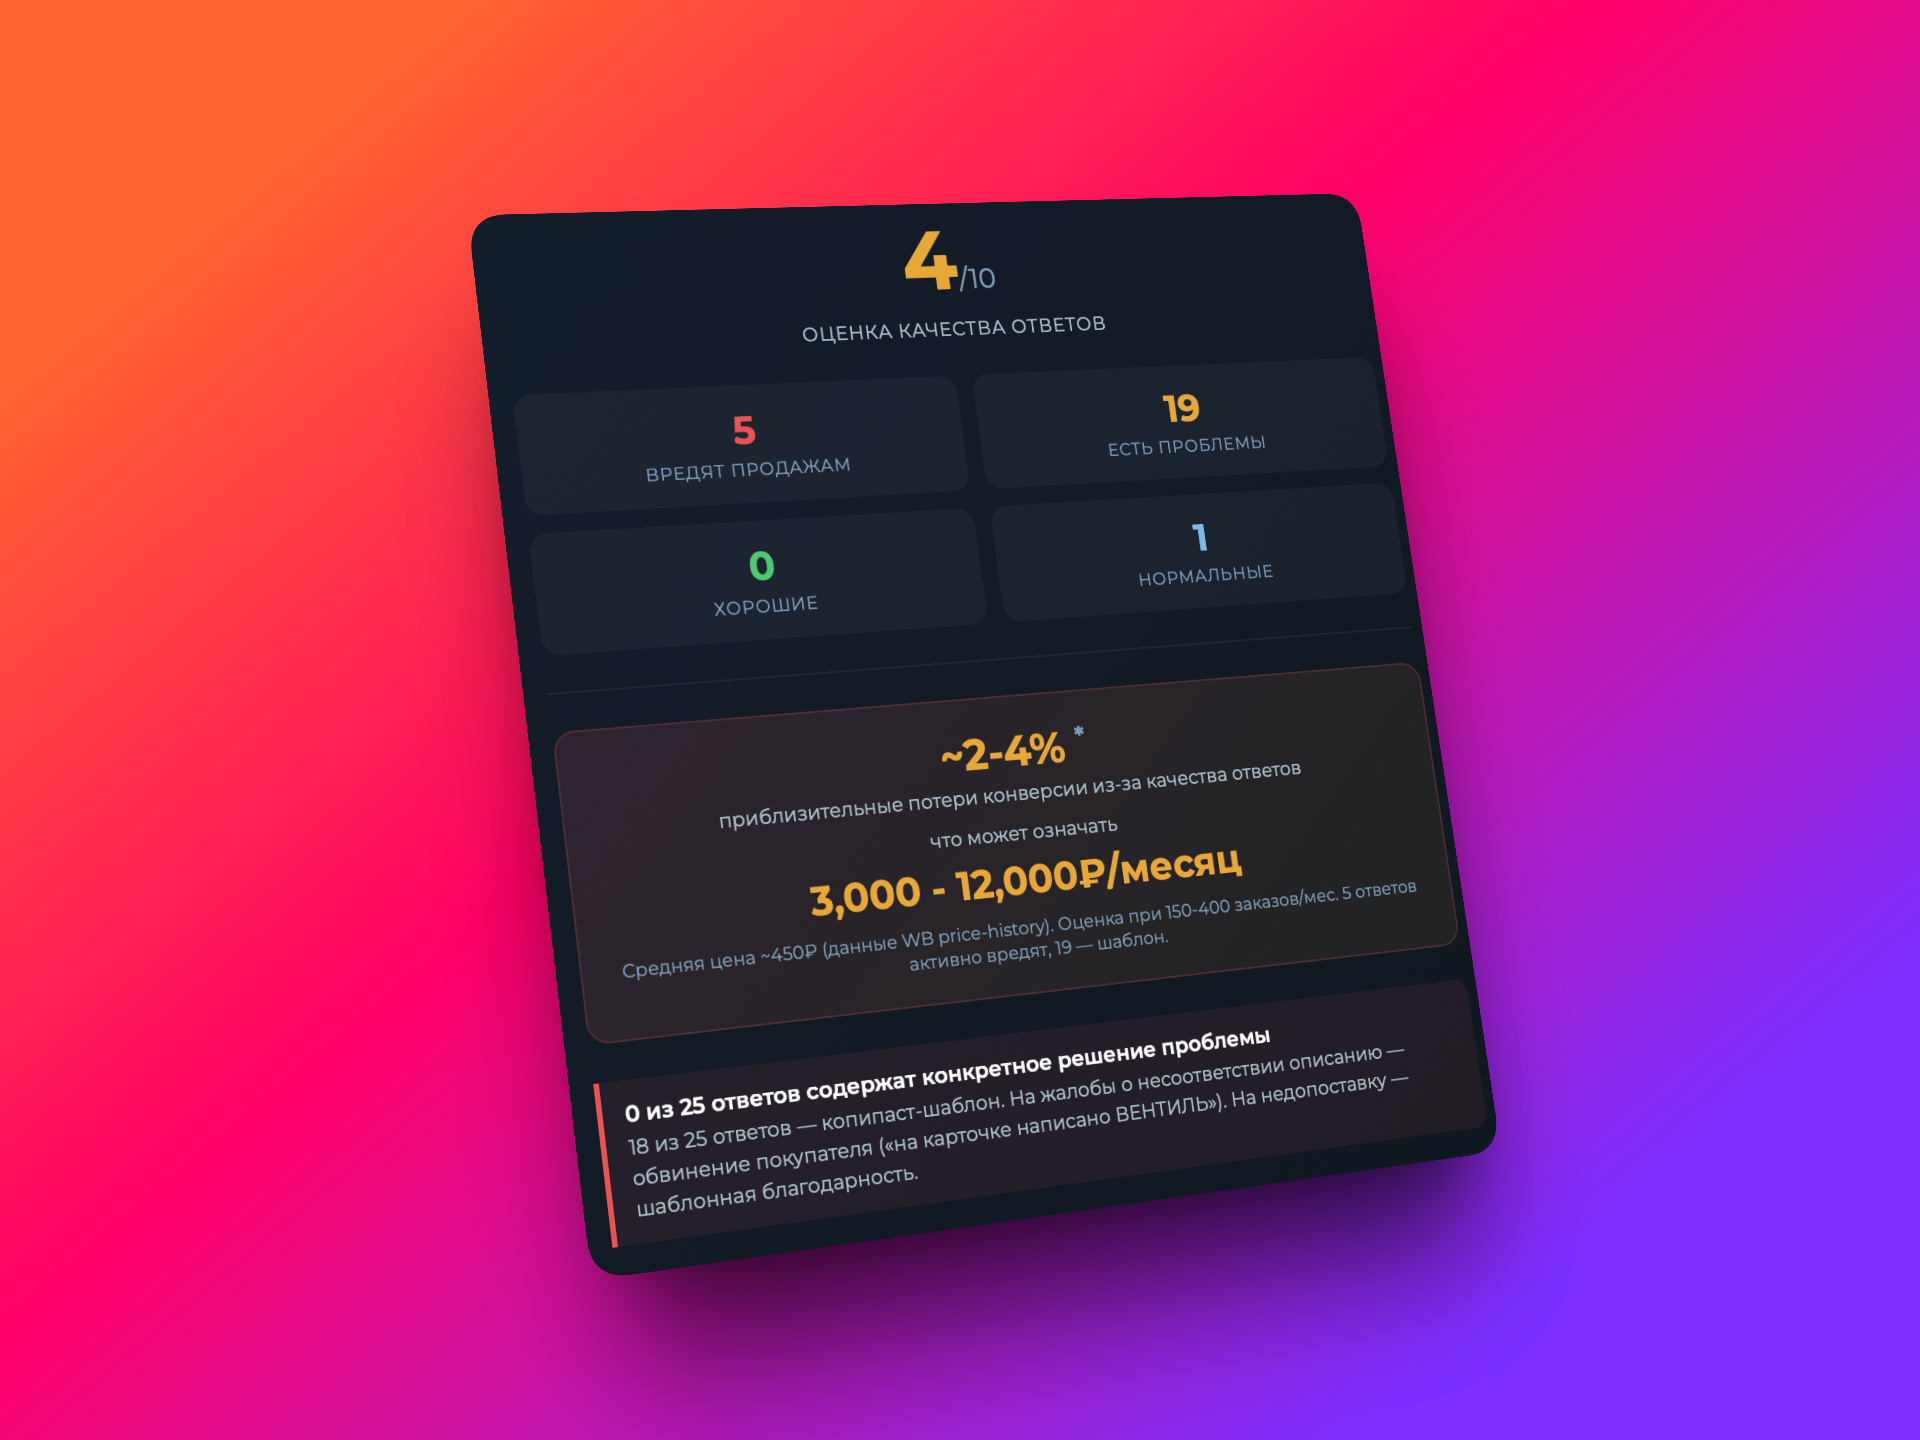
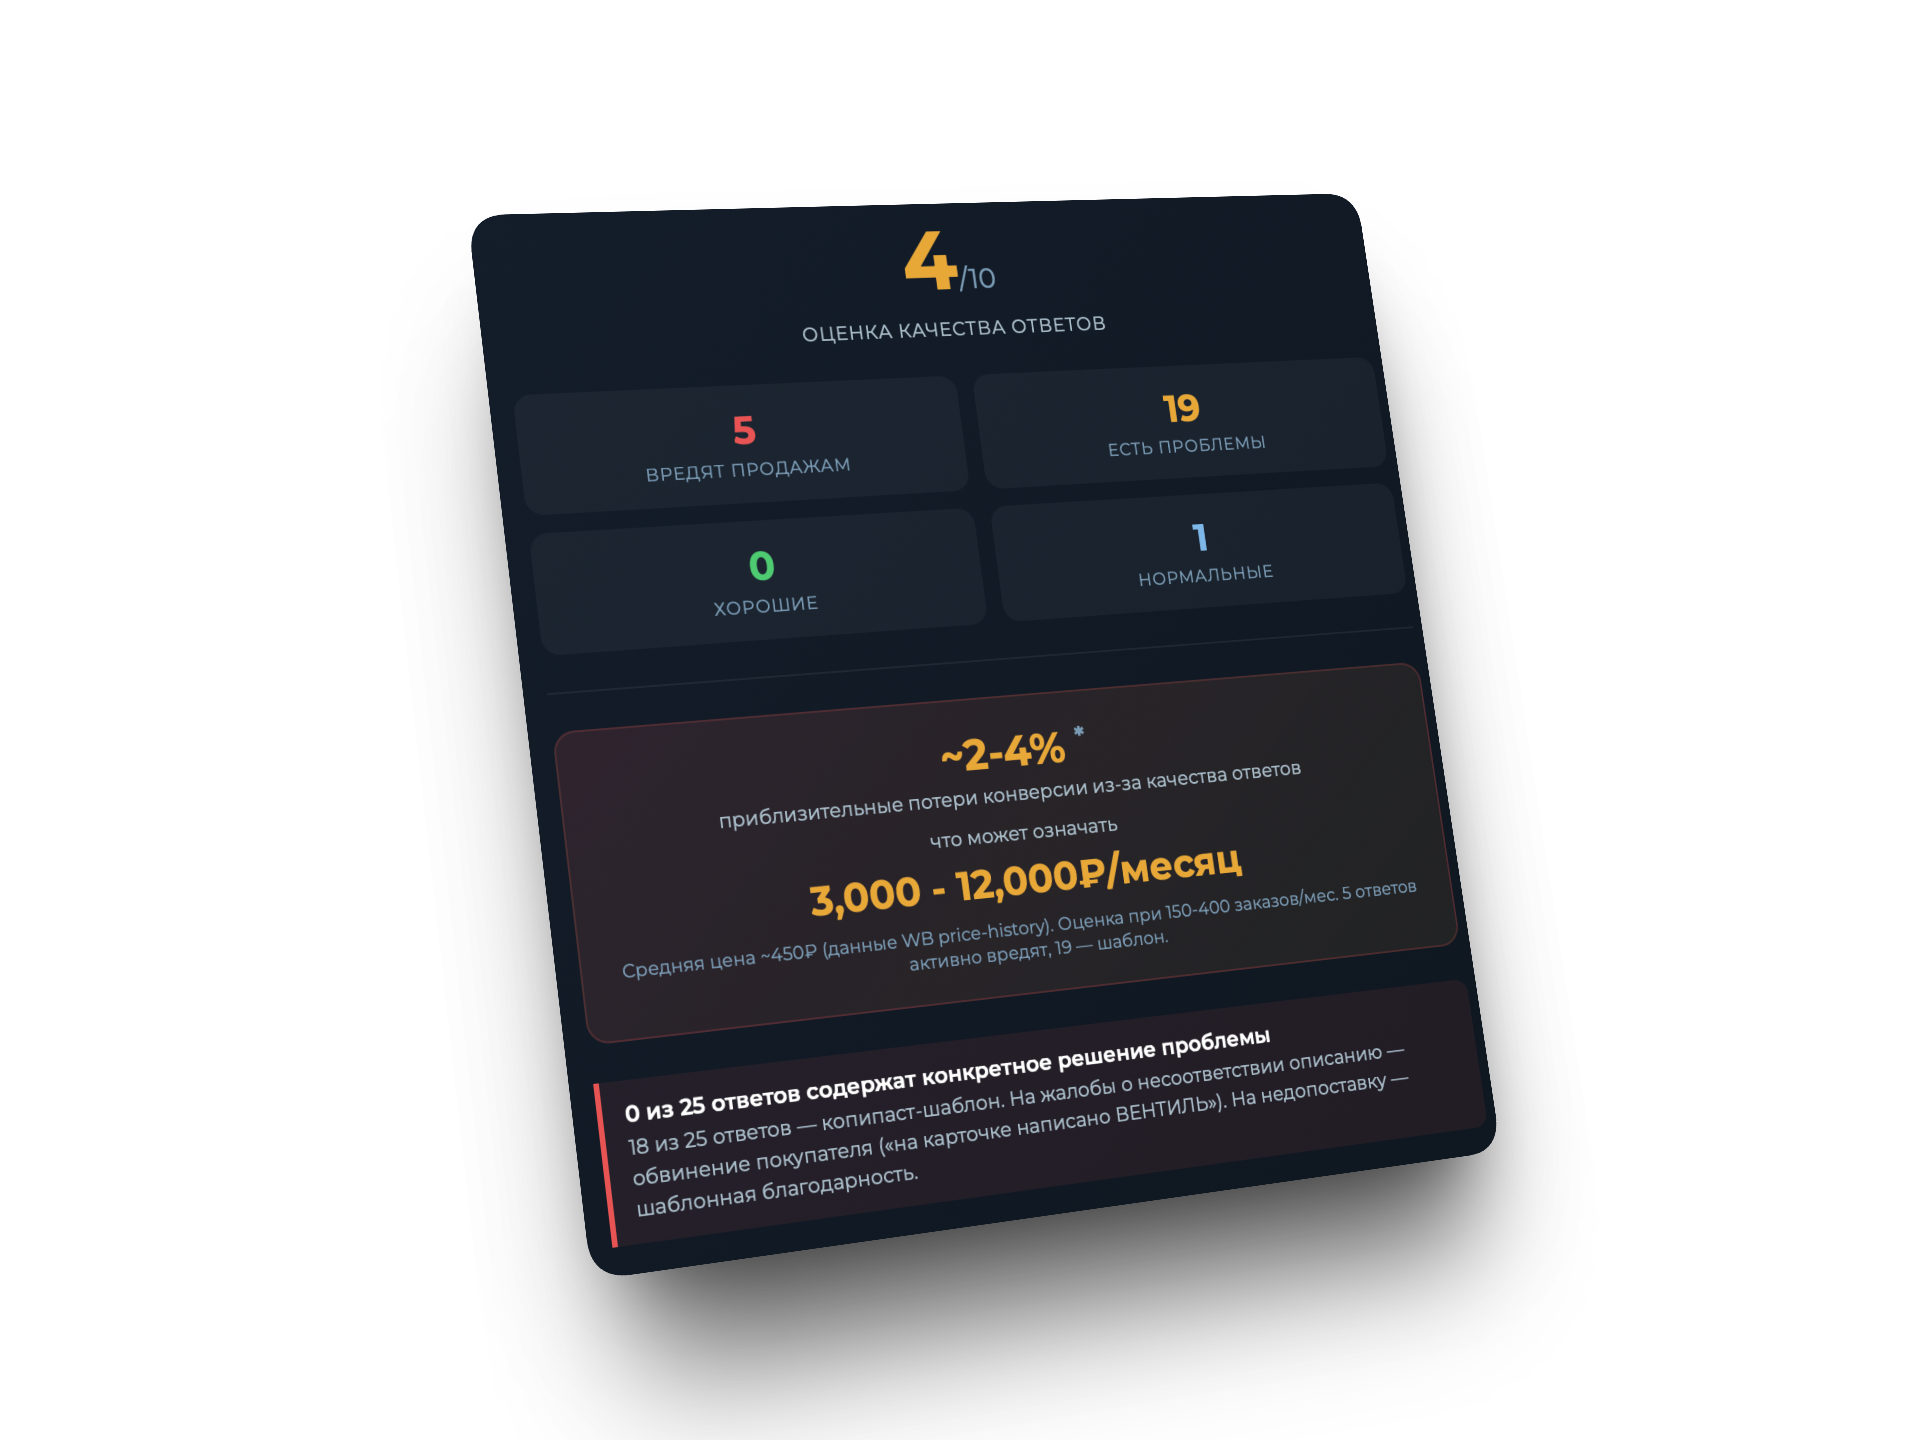
Update screenshots and make slider images slightly bigger
- Replace chat-center and quality-score screenshots with new transparent-bg versions
- Increase image scale (transform: scale(1.08)) for better visibility
- Reduce text flex-basis from 260px to 220px to give more space to images

diff --git a/agentiq/docs/prototypes/landing.html b/agentiq/docs/prototypes/landing.html
@@ -1004,20 +1004,20 @@
         }
 
         .proof-slide-img {
-            flex: 1;
+            flex: 1 1 0;
             min-width: 0;
-            border-radius: var(--radius-lg);
-            overflow: hidden;
         }
 
         .proof-slide-img img {
             width: 100%;
             height: auto;
             display: block;
+            transform: scale(1.08);
+            transform-origin: center center;
         }
 
         .proof-slide-text {
-            flex: 0 0 260px;
+            flex: 0 0 220px;
             padding: 8px 0;
         }
 

diff --git a/landing.html b/landing.html
@@ -1004,20 +1004,20 @@
         }
 
         .proof-slide-img {
-            flex: 1;
+            flex: 1 1 0;
             min-width: 0;
-            border-radius: var(--radius-lg);
-            overflow: hidden;
         }
 
         .proof-slide-img img {
             width: 100%;
             height: auto;
             display: block;
+            transform: scale(1.08);
+            transform-origin: center center;
         }
 
         .proof-slide-text {
-            flex: 0 0 260px;
+            flex: 0 0 220px;
             padding: 8px 0;
         }
 
